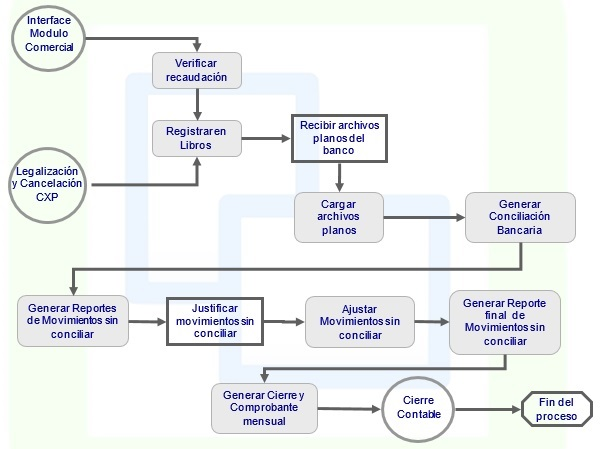
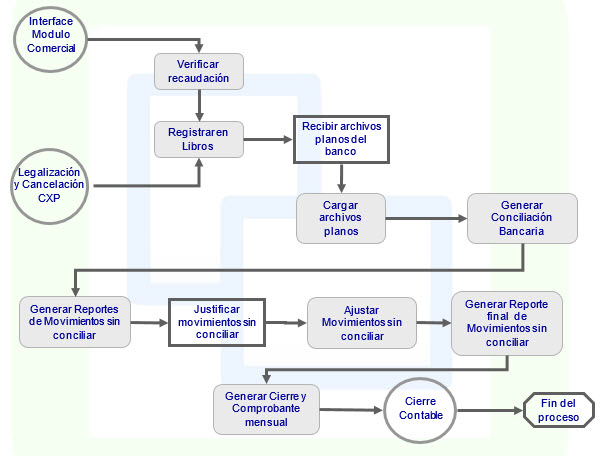
tesoreria

Changed region(s): [[0.0, 0.1247, 0.9834, 0.9978], [0.0, 0.0, 0.3278, 0.1559], [0.6258, 0.4365, 0.7748, 0.4989]]

diff --git a/Comercializacion/Descriptivo/ERP/Tesoreria.md b/Comercializacion/Descriptivo/ERP/Tesoreria.md
@@ -82,7 +82,7 @@ El módulo también agiliza muchas funciones que de otra manera presentarían de
 
 * Ejecuta el cruce con cartera o con cuentas por pagar de las cuentas que se están cancelando con el movimiento.  
 
-![](tesoreria.jpg)
+![](Tesoreria.jpg)
 
 
 ### Conciliación
